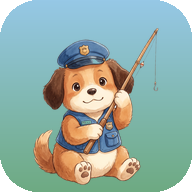
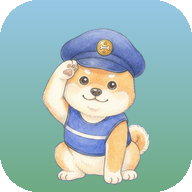
換圖不再卡瀏覽器快取；手機桌面圖示換成新隊長
- build 算所有圖檔內容的雜湊，圖片網址加上 ?v=，圖換了網址就變，瀏覽器會重新下載
- 用新的 dog-0 重做 icon-192／512／maskable（原本還是 9/14 的舊狗）

diff --git a/dist/index.html b/dist/index.html
@@ -763,7 +763,7 @@ svg.syl.solo.n3 { height: 1.26em; margin-block: -0.13em; }
   </defs>
 </svg>
 <div id="install-hint" hidden>手機請用 Chrome 開，再從選單「加到主畫面」，就會是全螢幕。點這裡關掉。</div>
-<div id="version" aria-hidden="true">v0.3.0 · e323e04 · 09/29 14:37</div>
+<div id="version" aria-hidden="true">v0.3.0 · 2e0f66d · 09/29 14:41</div>
 <div id="stage">
   <section class="screen" id="screen-profiles"></section>
   <section class="screen" id="screen-home"></section>
@@ -3441,6 +3441,9 @@ function createAudio (getSettings) {
 // 風格：借宮崎駿動畫的氛圍。水彩天空、厚積雲、層疊山丘、青綠海面、褪色木頭、柔光，不用粗描邊。
 
 
+// 圖片的版本：build.js 換成所有圖檔內容的雜湊。圖換了網址就跟著變，瀏覽器才不會一直拿快取裡的舊圖
+const IMG_V = 'dfdc85ed'
+
 // 符號怎麼顯示：單一符號直接放，結合韻兩個直排
 function symbolMarkup (sym) {
   // 詞：音節左右並列，每個音節各自直排；單一符號的音節也包成一欄，字才會一樣大
@@ -3525,7 +3528,7 @@ function wordPicMarkup (word) {
   if (!WORD_ICON[word]) return SPEAKER_PIC
   const text = WORD_TEXT[word] || ''
   const icon = WORD_ICON[word]
-  return `<img class="art-slot" src="img/words/${text}.png" alt="" onload="this.parentElement.classList.add('has-art')" onerror="this.remove()">` +
+  return `<img class="art-slot" src="img/words/${text}.png?v=${IMG_V}" alt="" onload="this.parentElement.classList.add('has-art')" onerror="this.remove()">` +
     `<img class="emoji emoji-img" src="img/emoji/${twemojiName(icon)}.svg" alt="${icon}" onerror="this.outerHTML='<span class=&quot;emoji&quot;>${icon}</span>'">`
 }
 
@@ -3540,8 +3543,8 @@ function bgHtml (kind, inner = '') {
   if (kind === 'scene') art = sceneSvg()
   else if (BG_SLOTS.includes(kind)) {
     art = homeBgSvg().replace(
-      /src="img\/home\.jpg"([^>]*)onerror="this\.remove\(\)"/,
-      `src="img/bg-${kind}.jpg"$1onerror="if (!this.dataset.fallback) { this.dataset.fallback = 1; this.src = 'img/home.jpg' } else this.remove()"`)
+      /src="img\/home\.jpg[^"]*"([^>]*)onerror="this\.remove\(\)"/,
+      `src="img/bg-${kind}.jpg?v=${IMG_V}"$1onerror="if (!this.dataset.fallback) { this.dataset.fallback = 1; this.src = 'img/home.jpg' } else this.remove()"`)
   } else art = homeBgSvg()
   return `<div class="bg" data-fit="${kind === 'scene' ? 'left' : 'center'}"><div class="bg-fill ${BG_SLOTS.includes(kind) ? 'home' : kind}"></div><div class="bg-art">${art}${inner}</div></div>`
 }
@@ -3594,7 +3597,7 @@ function dogIsCopy (color) {
 function dogSvg (color = 0, { mate = false } = {}) {
   const c = DOG_COLORS[color % DOG_COLORS.length]
   const band = mate && dogIsCopy(color) ? `<svg class="dog-acc front" viewBox="0 0 260 300" xmlns="http://www.w3.org/2000/svg"><path d="M72 150 Q120 178 168 152 Q170 170 164 180 Q120 204 76 174 Z" fill="${c.main}" stroke="${c.dark}" stroke-width="4"/></svg>` : ''
-  return `<span class="dog-slot">${accessoryLayer(color)}${band}<img class="art-slot" src="img/dog-${color % DOG_COLORS.length}.png" width="260" height="300" alt="" onload="this.parentElement.classList.add('has-art')" onerror="this.remove()">
+  return `<span class="dog-slot">${accessoryLayer(color)}${band}<img class="art-slot" src="img/dog-${color % DOG_COLORS.length}.png?v=${IMG_V}" width="260" height="300" alt="" onload="this.parentElement.classList.add('has-art')" onerror="this.remove()">
 <svg class="dog" viewBox="0 0 260 300" width="260" height="300" xmlns="http://www.w3.org/2000/svg">
   <defs>
     <radialGradient id="fur${color}" cx="0.4" cy="0.35" r="0.75">
@@ -3639,7 +3642,7 @@ function dogSvg (color = 0, { mate = false } = {}) {
 
 // 遊戲背景：水彩天、積雲、層疊山丘、青綠海、褪色碼頭。1200×800。
 function sceneSvg () {
-  return `<img class="art-slot" src="img/scene.jpg" width="1200" height="800" alt="" onload="this.parentElement.classList.add('has-art')" onerror="this.remove()">
+  return `<img class="art-slot" src="img/scene.jpg?v=${IMG_V}" width="1200" height="800" alt="" onload="this.parentElement.classList.add('has-art')" onerror="this.remove()">
 <svg class="scene" viewBox="0 0 1200 800" width="1200" height="800" xmlns="http://www.w3.org/2000/svg" preserveAspectRatio="none">
   <defs>
     ${PAPER_FILTER}
@@ -3713,7 +3716,7 @@ function sceneSvg () {
 
 // 首頁／選人／結算的背景：水彩天、積雲、草原。1200×800。
 function homeBgSvg () {
-  return `<img class="art-slot" src="img/home.jpg" width="1200" height="800" alt="" onload="this.parentElement.classList.add('has-art')" onerror="this.remove()">
+  return `<img class="art-slot" src="img/home.jpg?v=${IMG_V}" width="1200" height="800" alt="" onload="this.parentElement.classList.add('has-art')" onerror="this.remove()">
 <svg class="scene" viewBox="0 0 1200 800" width="1200" height="800" xmlns="http://www.w3.org/2000/svg" preserveAspectRatio="none">
   <defs>
     ${PAPER_FILTER}
@@ -3744,7 +3747,7 @@ function homeBgSvg () {
 // 三張玩法卡的插圖。300×400。
 function cardArt (kind) {
   if (kind === 'fishing') {
-    return `<img class="art-slot" src="img/card-fishing.jpg" width="300" height="400" alt="" onload="this.parentElement.classList.add('has-art')" onerror="this.remove()">
+    return `<img class="art-slot" src="img/card-fishing.jpg?v=${IMG_V}" width="300" height="400" alt="" onload="this.parentElement.classList.add('has-art')" onerror="this.remove()">
 <svg viewBox="0 0 300 400" width="300" height="400" xmlns="http://www.w3.org/2000/svg">
   <defs><linearGradient id="csky" x1="0" y1="0" x2="0" y2="1"><stop offset="0" stop-color="#6F9FD0"/><stop offset="1" stop-color="#DCEBF2"/></linearGradient></defs>
   <rect width="300" height="400" fill="url(#csky)"/>
@@ -3764,7 +3767,7 @@ function cardArt (kind) {
 </svg>`
   }
   if (kind === 'whack') {
-    return `<img class="art-slot" src="img/card-whack.jpg" width="300" height="400" alt="" onload="this.parentElement.classList.add('has-art')" onerror="this.remove()">
+    return `<img class="art-slot" src="img/card-whack.jpg?v=${IMG_V}" width="300" height="400" alt="" onload="this.parentElement.classList.add('has-art')" onerror="this.remove()">
 <svg viewBox="0 0 300 400" width="300" height="400" xmlns="http://www.w3.org/2000/svg">
   <defs><linearGradient id="wsky" x1="0" y1="0" x2="0" y2="1"><stop offset="0" stop-color="#6F9FD0"/><stop offset="1" stop-color="#DCEBF2"/></linearGradient></defs>
   <rect width="300" height="400" fill="url(#wsky)"/>
@@ -3779,7 +3782,7 @@ function cardArt (kind) {
 </svg>`
   }
   if (kind === 'write') {
-    return `<img class="art-slot" src="img/card-write.jpg" width="300" height="400" alt="" onload="this.parentElement.classList.add('has-art')" onerror="this.remove()">
+    return `<img class="art-slot" src="img/card-write.jpg?v=${IMG_V}" width="300" height="400" alt="" onload="this.parentElement.classList.add('has-art')" onerror="this.remove()">
 <svg viewBox="0 0 300 400" width="300" height="400" xmlns="http://www.w3.org/2000/svg">
   <rect width="300" height="400" fill="#EAF1EC"/>
   <rect x="40" y="60" width="220" height="220" rx="24" fill="#FFFDF7" stroke="#B08A63" stroke-width="8"/>
@@ -3790,7 +3793,7 @@ function cardArt (kind) {
 </svg>`
   }
   if (kind === 'match') {
-    return `<img class="art-slot" src="img/card-match.jpg" width="300" height="400" alt="" onload="this.parentElement.classList.add('has-art')" onerror="this.remove()">
+    return `<img class="art-slot" src="img/card-match.jpg?v=${IMG_V}" width="300" height="400" alt="" onload="this.parentElement.classList.add('has-art')" onerror="this.remove()">
 <svg viewBox="0 0 300 400" width="300" height="400" xmlns="http://www.w3.org/2000/svg">
   <rect width="300" height="400" fill="#DCEBF2"/>
   <rect x="30" y="70" width="100" height="70" rx="14" fill="#FFFDF7" stroke="#B08A63" stroke-width="6"/>
@@ -3804,7 +3807,7 @@ function cardArt (kind) {
 </svg>`
   }
   if (kind === 'fill') {
-    return `<img class="art-slot" src="img/card-fill.jpg" width="300" height="400" alt="" onload="this.parentElement.classList.add('has-art')" onerror="this.remove()">
+    return `<img class="art-slot" src="img/card-fill.jpg?v=${IMG_V}" width="300" height="400" alt="" onload="this.parentElement.classList.add('has-art')" onerror="this.remove()">
 <svg viewBox="0 0 300 400" width="300" height="400" xmlns="http://www.w3.org/2000/svg">
   <rect width="300" height="400" fill="#F3E4C2"/>
   <text x="70" y="150" text-anchor="middle" font-size="80">\u{1F34E}</text>
@@ -3819,7 +3822,7 @@ function cardArt (kind) {
 </svg>`
   }
   if (kind === 'tone') {
-    return `<img class="art-slot" src="img/card-tone.jpg" width="300" height="400" alt="" onload="this.parentElement.classList.add('has-art')" onerror="this.remove()">
+    return `<img class="art-slot" src="img/card-tone.jpg?v=${IMG_V}" width="300" height="400" alt="" onload="this.parentElement.classList.add('has-art')" onerror="this.remove()">
 <svg viewBox="0 0 300 400" width="300" height="400" xmlns="http://www.w3.org/2000/svg">
   <rect width="300" height="400" fill="#F3E4C2"/>
   <text x="70" y="150" text-anchor="middle" font-size="80">\u{1F434}</text>
@@ -3835,7 +3838,7 @@ function cardArt (kind) {
 </svg>`
   }
   if (kind === 'learn') {
-    return `<img class="art-slot" src="img/card-learn.jpg" width="300" height="400" alt="" onload="this.parentElement.classList.add('has-art')" onerror="this.remove()">
+    return `<img class="art-slot" src="img/card-learn.jpg?v=${IMG_V}" width="300" height="400" alt="" onload="this.parentElement.classList.add('has-art')" onerror="this.remove()">
 <svg viewBox="0 0 300 400" width="300" height="400" xmlns="http://www.w3.org/2000/svg">
   <rect width="300" height="400" fill="#F3E4C2"/>
   <rect x="40" y="60" width="220" height="220" rx="22" fill="#FFFDF7" stroke="#B08A63" stroke-width="7"/>
@@ -3848,7 +3851,7 @@ function cardArt (kind) {
 </svg>`
   }
   if (kind === 'speak') {
-    return `<img class="art-slot" src="img/card-speak.jpg" width="300" height="400" alt="" onload="this.parentElement.classList.add('has-art')" onerror="this.remove()">
+    return `<img class="art-slot" src="img/card-speak.jpg?v=${IMG_V}" width="300" height="400" alt="" onload="this.parentElement.classList.add('has-art')" onerror="this.remove()">
 <svg viewBox="0 0 300 400" width="300" height="400" xmlns="http://www.w3.org/2000/svg">
   <rect width="300" height="400" fill="#F3E4C2"/>
   <path d="M0 300 h300 v100 H0z" fill="#8DBB74"/>
@@ -3865,7 +3868,7 @@ function cardArt (kind) {
   <rect x="224" y="330" width="12" height="30" fill="#4A6FA5"/>
 </svg>`
   }
-  return `<img class="art-slot" src="img/card-memory.jpg" width="300" height="400" alt="" onload="this.parentElement.classList.add('has-art')" onerror="this.remove()">
+  return `<img class="art-slot" src="img/card-memory.jpg?v=${IMG_V}" width="300" height="400" alt="" onload="this.parentElement.classList.add('has-art')" onerror="this.remove()">
 <svg viewBox="0 0 300 400" width="300" height="400" xmlns="http://www.w3.org/2000/svg">
   <rect width="300" height="400" fill="#BFD8B0"/>
   <g>

diff --git a/src/art.js b/src/art.js
@@ -3,6 +3,9 @@
 
 import { WORD_TEXT, WORD_ICON } from './data.js'
 
+// 圖片的版本：build.js 換成所有圖檔內容的雜湊。圖換了網址就跟著變，瀏覽器才不會一直拿快取裡的舊圖
+const IMG_V = '__IMG_V__'
+
 // 符號怎麼顯示：單一符號直接放，結合韻兩個直排
 export function symbolMarkup (sym) {
   // 詞：音節左右並列，每個音節各自直排；單一符號的音節也包成一欄，字才會一樣大
@@ -87,7 +90,7 @@ export function wordPicMarkup (word) {
   if (!WORD_ICON[word]) return SPEAKER_PIC
   const text = WORD_TEXT[word] || ''
   const icon = WORD_ICON[word]
-  return `<img class="art-slot" src="img/words/${text}.png" alt="" onload="this.parentElement.classList.add('has-art')" onerror="this.remove()">` +
+  return `<img class="art-slot" src="img/words/${text}.png?v=${IMG_V}" alt="" onload="this.parentElement.classList.add('has-art')" onerror="this.remove()">` +
     `<img class="emoji emoji-img" src="img/emoji/${twemojiName(icon)}.svg" alt="${icon}" onerror="this.outerHTML='<span class=&quot;emoji&quot;>${icon}</span>'">`
 }
 
@@ -102,8 +105,8 @@ export function bgHtml (kind, inner = '') {
   if (kind === 'scene') art = sceneSvg()
   else if (BG_SLOTS.includes(kind)) {
     art = homeBgSvg().replace(
-      /src="img\/home\.jpg"([^>]*)onerror="this\.remove\(\)"/,
-      `src="img/bg-${kind}.jpg"$1onerror="if (!this.dataset.fallback) { this.dataset.fallback = 1; this.src = 'img/home.jpg' } else this.remove()"`)
+      /src="img\/home\.jpg[^"]*"([^>]*)onerror="this\.remove\(\)"/,
+      `src="img/bg-${kind}.jpg?v=${IMG_V}"$1onerror="if (!this.dataset.fallback) { this.dataset.fallback = 1; this.src = 'img/home.jpg' } else this.remove()"`)
   } else art = homeBgSvg()
   return `<div class="bg" data-fit="${kind === 'scene' ? 'left' : 'center'}"><div class="bg-fill ${BG_SLOTS.includes(kind) ? 'home' : kind}"></div><div class="bg-art">${art}${inner}</div></div>`
 }
@@ -156,7 +159,7 @@ function dogIsCopy (color) {
 export function dogSvg (color = 0, { mate = false } = {}) {
   const c = DOG_COLORS[color % DOG_COLORS.length]
   const band = mate && dogIsCopy(color) ? `<svg class="dog-acc front" viewBox="0 0 260 300" xmlns="http://www.w3.org/2000/svg"><path d="M72 150 Q120 178 168 152 Q170 170 164 180 Q120 204 76 174 Z" fill="${c.main}" stroke="${c.dark}" stroke-width="4"/></svg>` : ''
-  return `<span class="dog-slot">${accessoryLayer(color)}${band}<img class="art-slot" src="img/dog-${color % DOG_COLORS.length}.png" width="260" height="300" alt="" onload="this.parentElement.classList.add('has-art')" onerror="this.remove()">
+  return `<span class="dog-slot">${accessoryLayer(color)}${band}<img class="art-slot" src="img/dog-${color % DOG_COLORS.length}.png?v=${IMG_V}" width="260" height="300" alt="" onload="this.parentElement.classList.add('has-art')" onerror="this.remove()">
 <svg class="dog" viewBox="0 0 260 300" width="260" height="300" xmlns="http://www.w3.org/2000/svg">
   <defs>
     <radialGradient id="fur${color}" cx="0.4" cy="0.35" r="0.75">
@@ -201,7 +204,7 @@ export function dogSvg (color = 0, { mate = false } = {}) {
 
 // 遊戲背景：水彩天、積雲、層疊山丘、青綠海、褪色碼頭。1200×800。
 export function sceneSvg () {
-  return `<img class="art-slot" src="img/scene.jpg" width="1200" height="800" alt="" onload="this.parentElement.classList.add('has-art')" onerror="this.remove()">
+  return `<img class="art-slot" src="img/scene.jpg?v=${IMG_V}" width="1200" height="800" alt="" onload="this.parentElement.classList.add('has-art')" onerror="this.remove()">
 <svg class="scene" viewBox="0 0 1200 800" width="1200" height="800" xmlns="http://www.w3.org/2000/svg" preserveAspectRatio="none">
   <defs>
     ${PAPER_FILTER}
@@ -275,7 +278,7 @@ export function sceneSvg () {
 
 // 首頁／選人／結算的背景：水彩天、積雲、草原。1200×800。
 export function homeBgSvg () {
-  return `<img class="art-slot" src="img/home.jpg" width="1200" height="800" alt="" onload="this.parentElement.classList.add('has-art')" onerror="this.remove()">
+  return `<img class="art-slot" src="img/home.jpg?v=${IMG_V}" width="1200" height="800" alt="" onload="this.parentElement.classList.add('has-art')" onerror="this.remove()">
 <svg class="scene" viewBox="0 0 1200 800" width="1200" height="800" xmlns="http://www.w3.org/2000/svg" preserveAspectRatio="none">
   <defs>
     ${PAPER_FILTER}
@@ -306,7 +309,7 @@ export function homeBgSvg () {
 // 三張玩法卡的插圖。300×400。
 export function cardArt (kind) {
   if (kind === 'fishing') {
-    return `<img class="art-slot" src="img/card-fishing.jpg" width="300" height="400" alt="" onload="this.parentElement.classList.add('has-art')" onerror="this.remove()">
+    return `<img class="art-slot" src="img/card-fishing.jpg?v=${IMG_V}" width="300" height="400" alt="" onload="this.parentElement.classList.add('has-art')" onerror="this.remove()">
 <svg viewBox="0 0 300 400" width="300" height="400" xmlns="http://www.w3.org/2000/svg">
   <defs><linearGradient id="csky" x1="0" y1="0" x2="0" y2="1"><stop offset="0" stop-color="#6F9FD0"/><stop offset="1" stop-color="#DCEBF2"/></linearGradient></defs>
   <rect width="300" height="400" fill="url(#csky)"/>
@@ -326,7 +329,7 @@ export function cardArt (kind) {
 </svg>`
   }
   if (kind === 'whack') {
-    return `<img class="art-slot" src="img/card-whack.jpg" width="300" height="400" alt="" onload="this.parentElement.classList.add('has-art')" onerror="this.remove()">
+    return `<img class="art-slot" src="img/card-whack.jpg?v=${IMG_V}" width="300" height="400" alt="" onload="this.parentElement.classList.add('has-art')" onerror="this.remove()">
 <svg viewBox="0 0 300 400" width="300" height="400" xmlns="http://www.w3.org/2000/svg">
   <defs><linearGradient id="wsky" x1="0" y1="0" x2="0" y2="1"><stop offset="0" stop-color="#6F9FD0"/><stop offset="1" stop-color="#DCEBF2"/></linearGradient></defs>
   <rect width="300" height="400" fill="url(#wsky)"/>
@@ -341,7 +344,7 @@ export function cardArt (kind) {
 </svg>`
   }
   if (kind === 'write') {
-    return `<img class="art-slot" src="img/card-write.jpg" width="300" height="400" alt="" onload="this.parentElement.classList.add('has-art')" onerror="this.remove()">
+    return `<img class="art-slot" src="img/card-write.jpg?v=${IMG_V}" width="300" height="400" alt="" onload="this.parentElement.classList.add('has-art')" onerror="this.remove()">
 <svg viewBox="0 0 300 400" width="300" height="400" xmlns="http://www.w3.org/2000/svg">
   <rect width="300" height="400" fill="#EAF1EC"/>
   <rect x="40" y="60" width="220" height="220" rx="24" fill="#FFFDF7" stroke="#B08A63" stroke-width="8"/>
@@ -352,7 +355,7 @@ export function cardArt (kind) {
 </svg>`
   }
   if (kind === 'match') {
-    return `<img class="art-slot" src="img/card-match.jpg" width="300" height="400" alt="" onload="this.parentElement.classList.add('has-art')" onerror="this.remove()">
+    return `<img class="art-slot" src="img/card-match.jpg?v=${IMG_V}" width="300" height="400" alt="" onload="this.parentElement.classList.add('has-art')" onerror="this.remove()">
 <svg viewBox="0 0 300 400" width="300" height="400" xmlns="http://www.w3.org/2000/svg">
   <rect width="300" height="400" fill="#DCEBF2"/>
   <rect x="30" y="70" width="100" height="70" rx="14" fill="#FFFDF7" stroke="#B08A63" stroke-width="6"/>
@@ -366,7 +369,7 @@ export function cardArt (kind) {
 </svg>`
   }
   if (kind === 'fill') {
-    return `<img class="art-slot" src="img/card-fill.jpg" width="300" height="400" alt="" onload="this.parentElement.classList.add('has-art')" onerror="this.remove()">
+    return `<img class="art-slot" src="img/card-fill.jpg?v=${IMG_V}" width="300" height="400" alt="" onload="this.parentElement.classList.add('has-art')" onerror="this.remove()">
 <svg viewBox="0 0 300 400" width="300" height="400" xmlns="http://www.w3.org/2000/svg">
   <rect width="300" height="400" fill="#F3E4C2"/>
   <text x="70" y="150" text-anchor="middle" font-size="80">\u{1F34E}</text>
@@ -381,7 +384,7 @@ export function cardArt (kind) {
 </svg>`
   }
   if (kind === 'tone') {
-    return `<img class="art-slot" src="img/card-tone.jpg" width="300" height="400" alt="" onload="this.parentElement.classList.add('has-art')" onerror="this.remove()">
+    return `<img class="art-slot" src="img/card-tone.jpg?v=${IMG_V}" width="300" height="400" alt="" onload="this.parentElement.classList.add('has-art')" onerror="this.remove()">
 <svg viewBox="0 0 300 400" width="300" height="400" xmlns="http://www.w3.org/2000/svg">
   <rect width="300" height="400" fill="#F3E4C2"/>
   <text x="70" y="150" text-anchor="middle" font-size="80">\u{1F434}</text>
@@ -397,7 +400,7 @@ export function cardArt (kind) {
 </svg>`
   }
   if (kind === 'learn') {
-    return `<img class="art-slot" src="img/card-learn.jpg" width="300" height="400" alt="" onload="this.parentElement.classList.add('has-art')" onerror="this.remove()">
+    return `<img class="art-slot" src="img/card-learn.jpg?v=${IMG_V}" width="300" height="400" alt="" onload="this.parentElement.classList.add('has-art')" onerror="this.remove()">
 <svg viewBox="0 0 300 400" width="300" height="400" xmlns="http://www.w3.org/2000/svg">
   <rect width="300" height="400" fill="#F3E4C2"/>
   <rect x="40" y="60" width="220" height="220" rx="22" fill="#FFFDF7" stroke="#B08A63" stroke-width="7"/>
@@ -410,7 +413,7 @@ export function cardArt (kind) {
 </svg>`
   }
   if (kind === 'speak') {
-    return `<img class="art-slot" src="img/card-speak.jpg" width="300" height="400" alt="" onload="this.parentElement.classList.add('has-art')" onerror="this.remove()">
+    return `<img class="art-slot" src="img/card-speak.jpg?v=${IMG_V}" width="300" height="400" alt="" onload="this.parentElement.classList.add('has-art')" onerror="this.remove()">
 <svg viewBox="0 0 300 400" width="300" height="400" xmlns="http://www.w3.org/2000/svg">
   <rect width="300" height="400" fill="#F3E4C2"/>
   <path d="M0 300 h300 v100 H0z" fill="#8DBB74"/>
@@ -427,7 +430,7 @@ export function cardArt (kind) {
   <rect x="224" y="330" width="12" height="30" fill="#4A6FA5"/>
 </svg>`
   }
-  return `<img class="art-slot" src="img/card-memory.jpg" width="300" height="400" alt="" onload="this.parentElement.classList.add('has-art')" onerror="this.remove()">
+  return `<img class="art-slot" src="img/card-memory.jpg?v=${IMG_V}" width="300" height="400" alt="" onload="this.parentElement.classList.add('has-art')" onerror="this.remove()">
 <svg viewBox="0 0 300 400" width="300" height="400" xmlns="http://www.w3.org/2000/svg">
   <rect width="300" height="400" fill="#BFD8B0"/>
   <g>

diff --git a/build.js b/build.js
@@ -6,6 +6,7 @@ import { readFileSync, writeFileSync, mkdirSync, readdirSync, copyFileSync, exis
 import { dirname, join } from 'node:path'
 import { fileURLToPath } from 'node:url'
 import { execSync } from 'node:child_process'
+import { createHash } from 'node:crypto'
 
 const root = dirname(fileURLToPath(import.meta.url))
 const ORDER = ['syllables.js', 'data.js', 'scheduler.js', 'store.js', 'audio.js', 'art.js', 'fishing.js', 'whack.js', 'memory.js', 'speak.js', 'ink.js', 'strokes.js', 'strokeplay.js', 'write.js', 'learn.js', 'matchline.js', 'fillblank.js', 'ui.js', 'fx.js', 'tutorial.js', 'shop.js', 'check.js', 'main.js']
@@ -21,7 +22,22 @@ function strip (src, name) {
 const dogPath = i => join(root, 'img', `dog-${i}.png`)
 const dog0 = existsSync(dogPath(0)) ? readFileSync(dogPath(0)) : null
 const dogCopies = [1, 2, 3, 4, 5].filter(i => dog0 && existsSync(dogPath(i)) && readFileSync(dogPath(i)).equals(dog0))
-const js = `const DOG_COPIES = ${JSON.stringify(dogCopies)}\n` + ORDER.map(f => strip(readFileSync(join(root, 'src', f), 'utf8'), f)).join('\n')
+// 圖片版本：所有圖檔內容一起算雜湊，換圖網址才會變（art.js 的 IMG_V）
+function imageVersion () {
+  const h = createHash('sha1')
+  const walk = dir => {
+    if (!existsSync(dir)) return
+    for (const f of readdirSync(dir).sort()) {
+      const p = join(dir, f)
+      if (/\.(png|jpg|jpeg|webp|svg)$/i.test(f)) h.update(f).update(readFileSync(p))
+      else if (f === 'words' || f === 'emoji') walk(p)
+    }
+  }
+  walk(join(root, 'img'))
+  return h.digest('hex').slice(0, 8)
+}
+const imgVersion = imageVersion()
+const js = `const DOG_COPIES = ${JSON.stringify(dogCopies)}\n` + ORDER.map(f => strip(readFileSync(join(root, 'src', f), 'utf8'), f)).join('\n').replace(/__IMG_V__/g, imgVersion)
 // 各模組最外層的名稱不能撞：合成同一個範圍後，同名的 function 會靜靜地互相蓋掉，new Function 抓不到
 const seen = {}
 for (const f of ORDER) {
@@ -49,6 +65,7 @@ function buildVersion () {
   return [`v${pkg.version}`, sha.slice(0, 7), when].filter(Boolean).join(' · ')
 }
 const version = buildVersion()
+
 
 const html = readFileSync(join(root, 'src', 'index.html'), 'utf8')
   .replace('__VERSION__', () => version)
